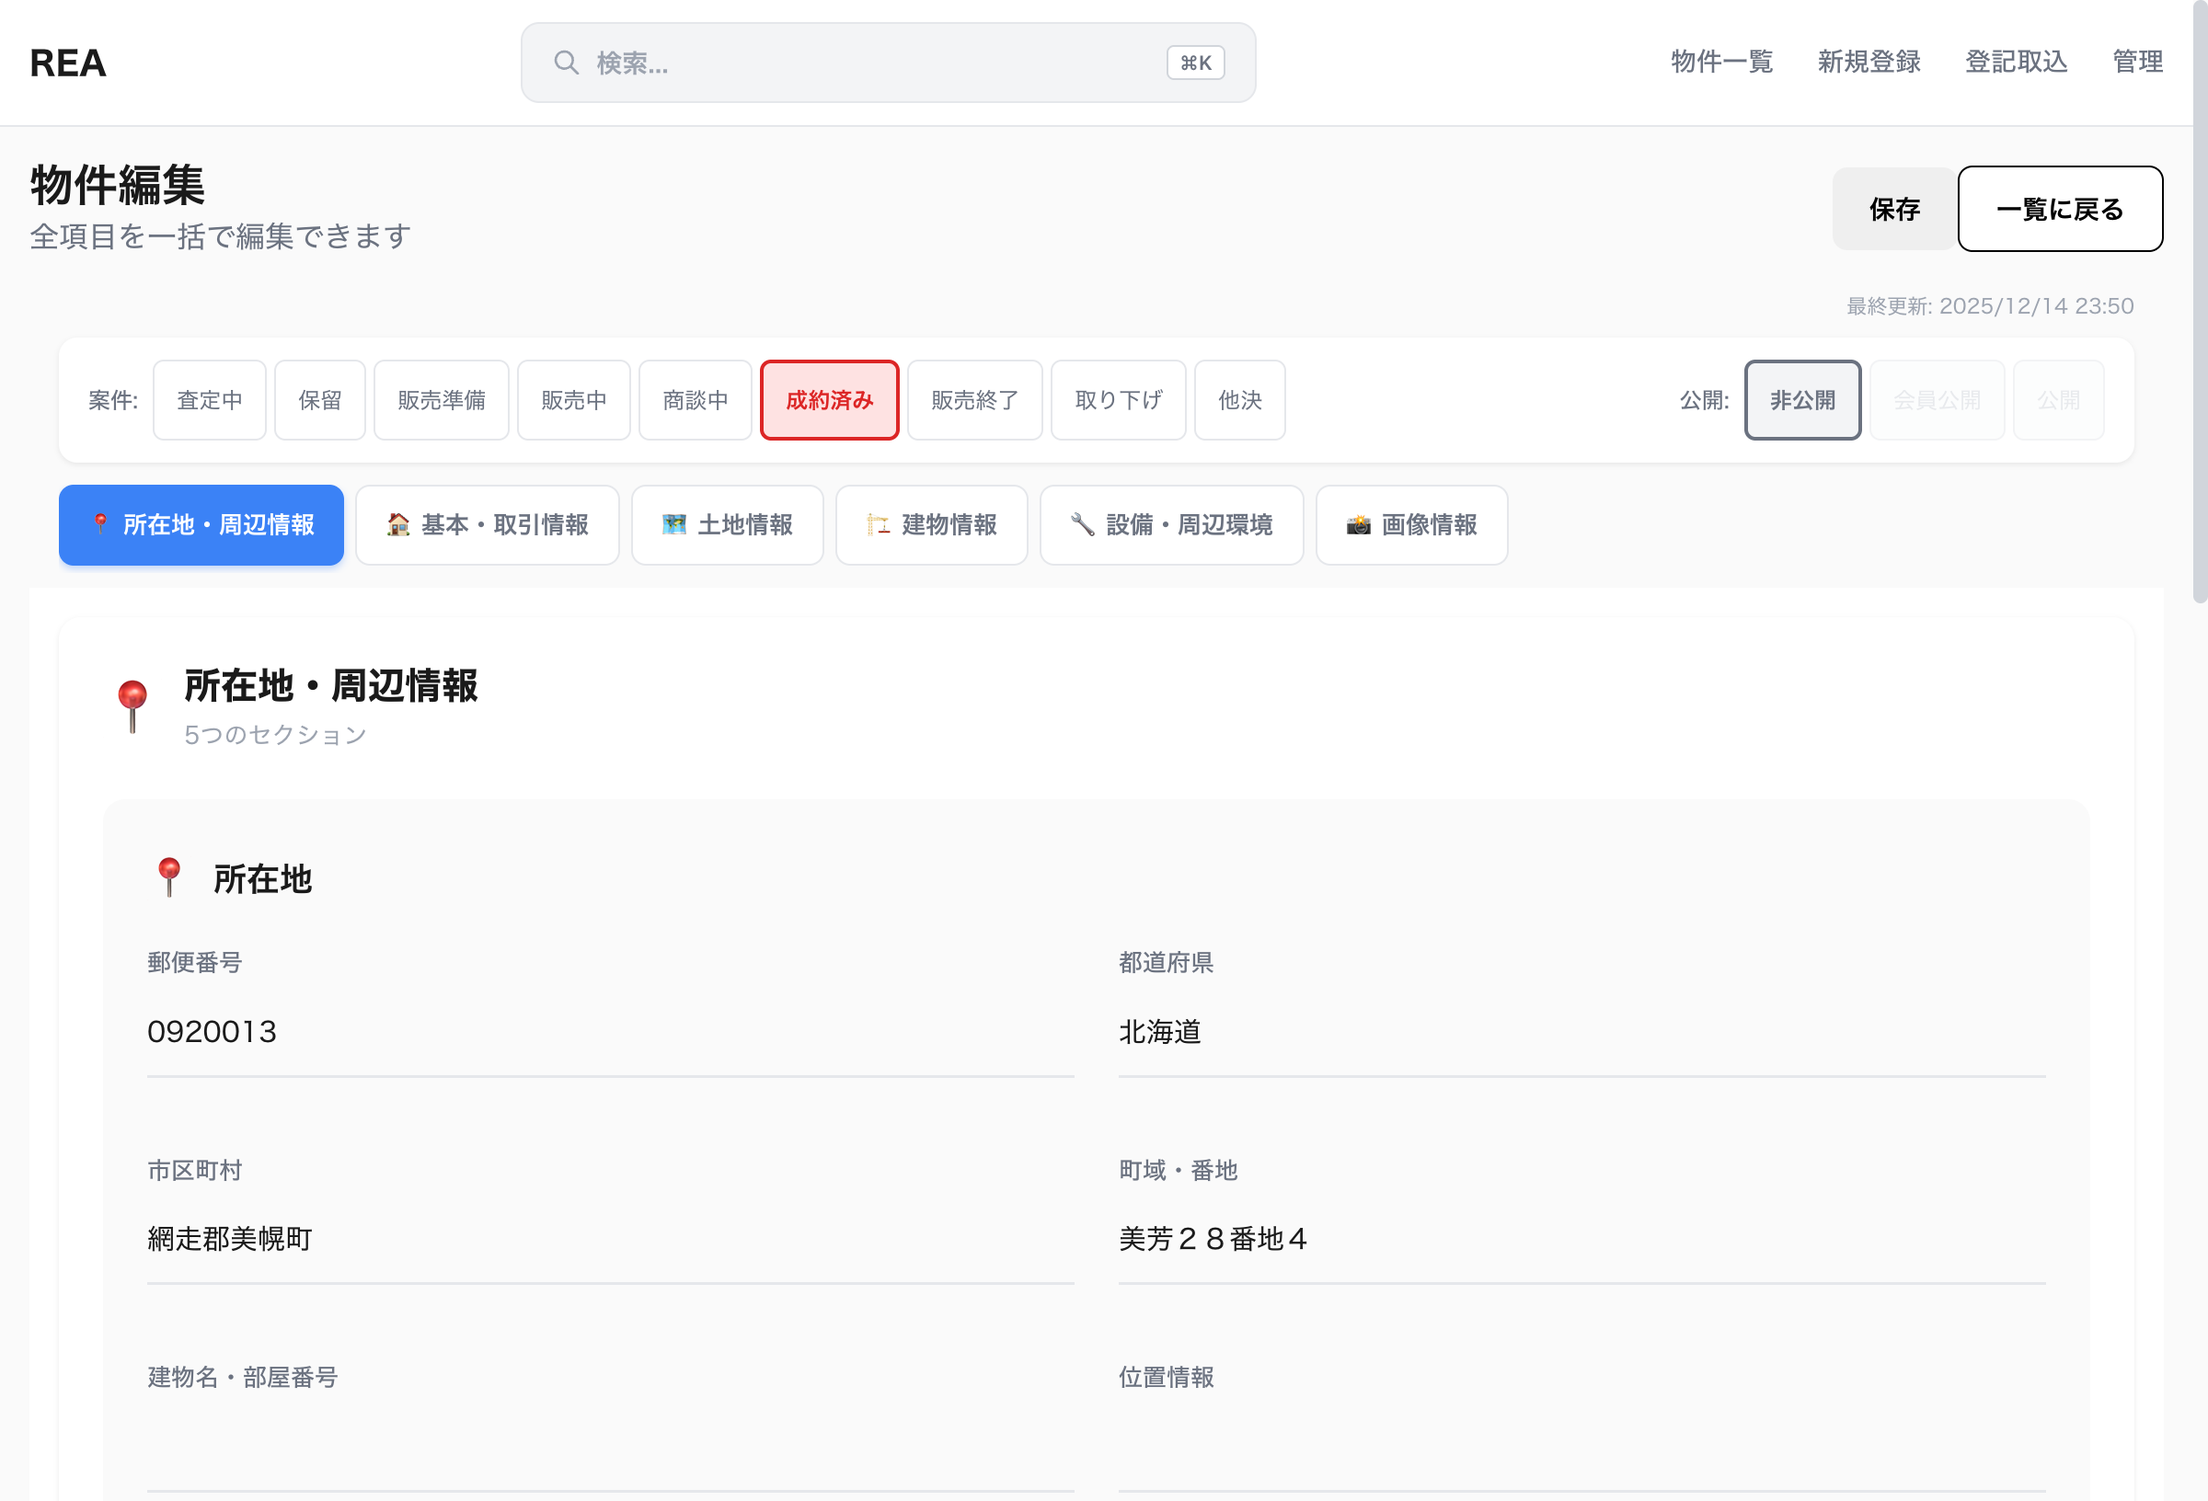
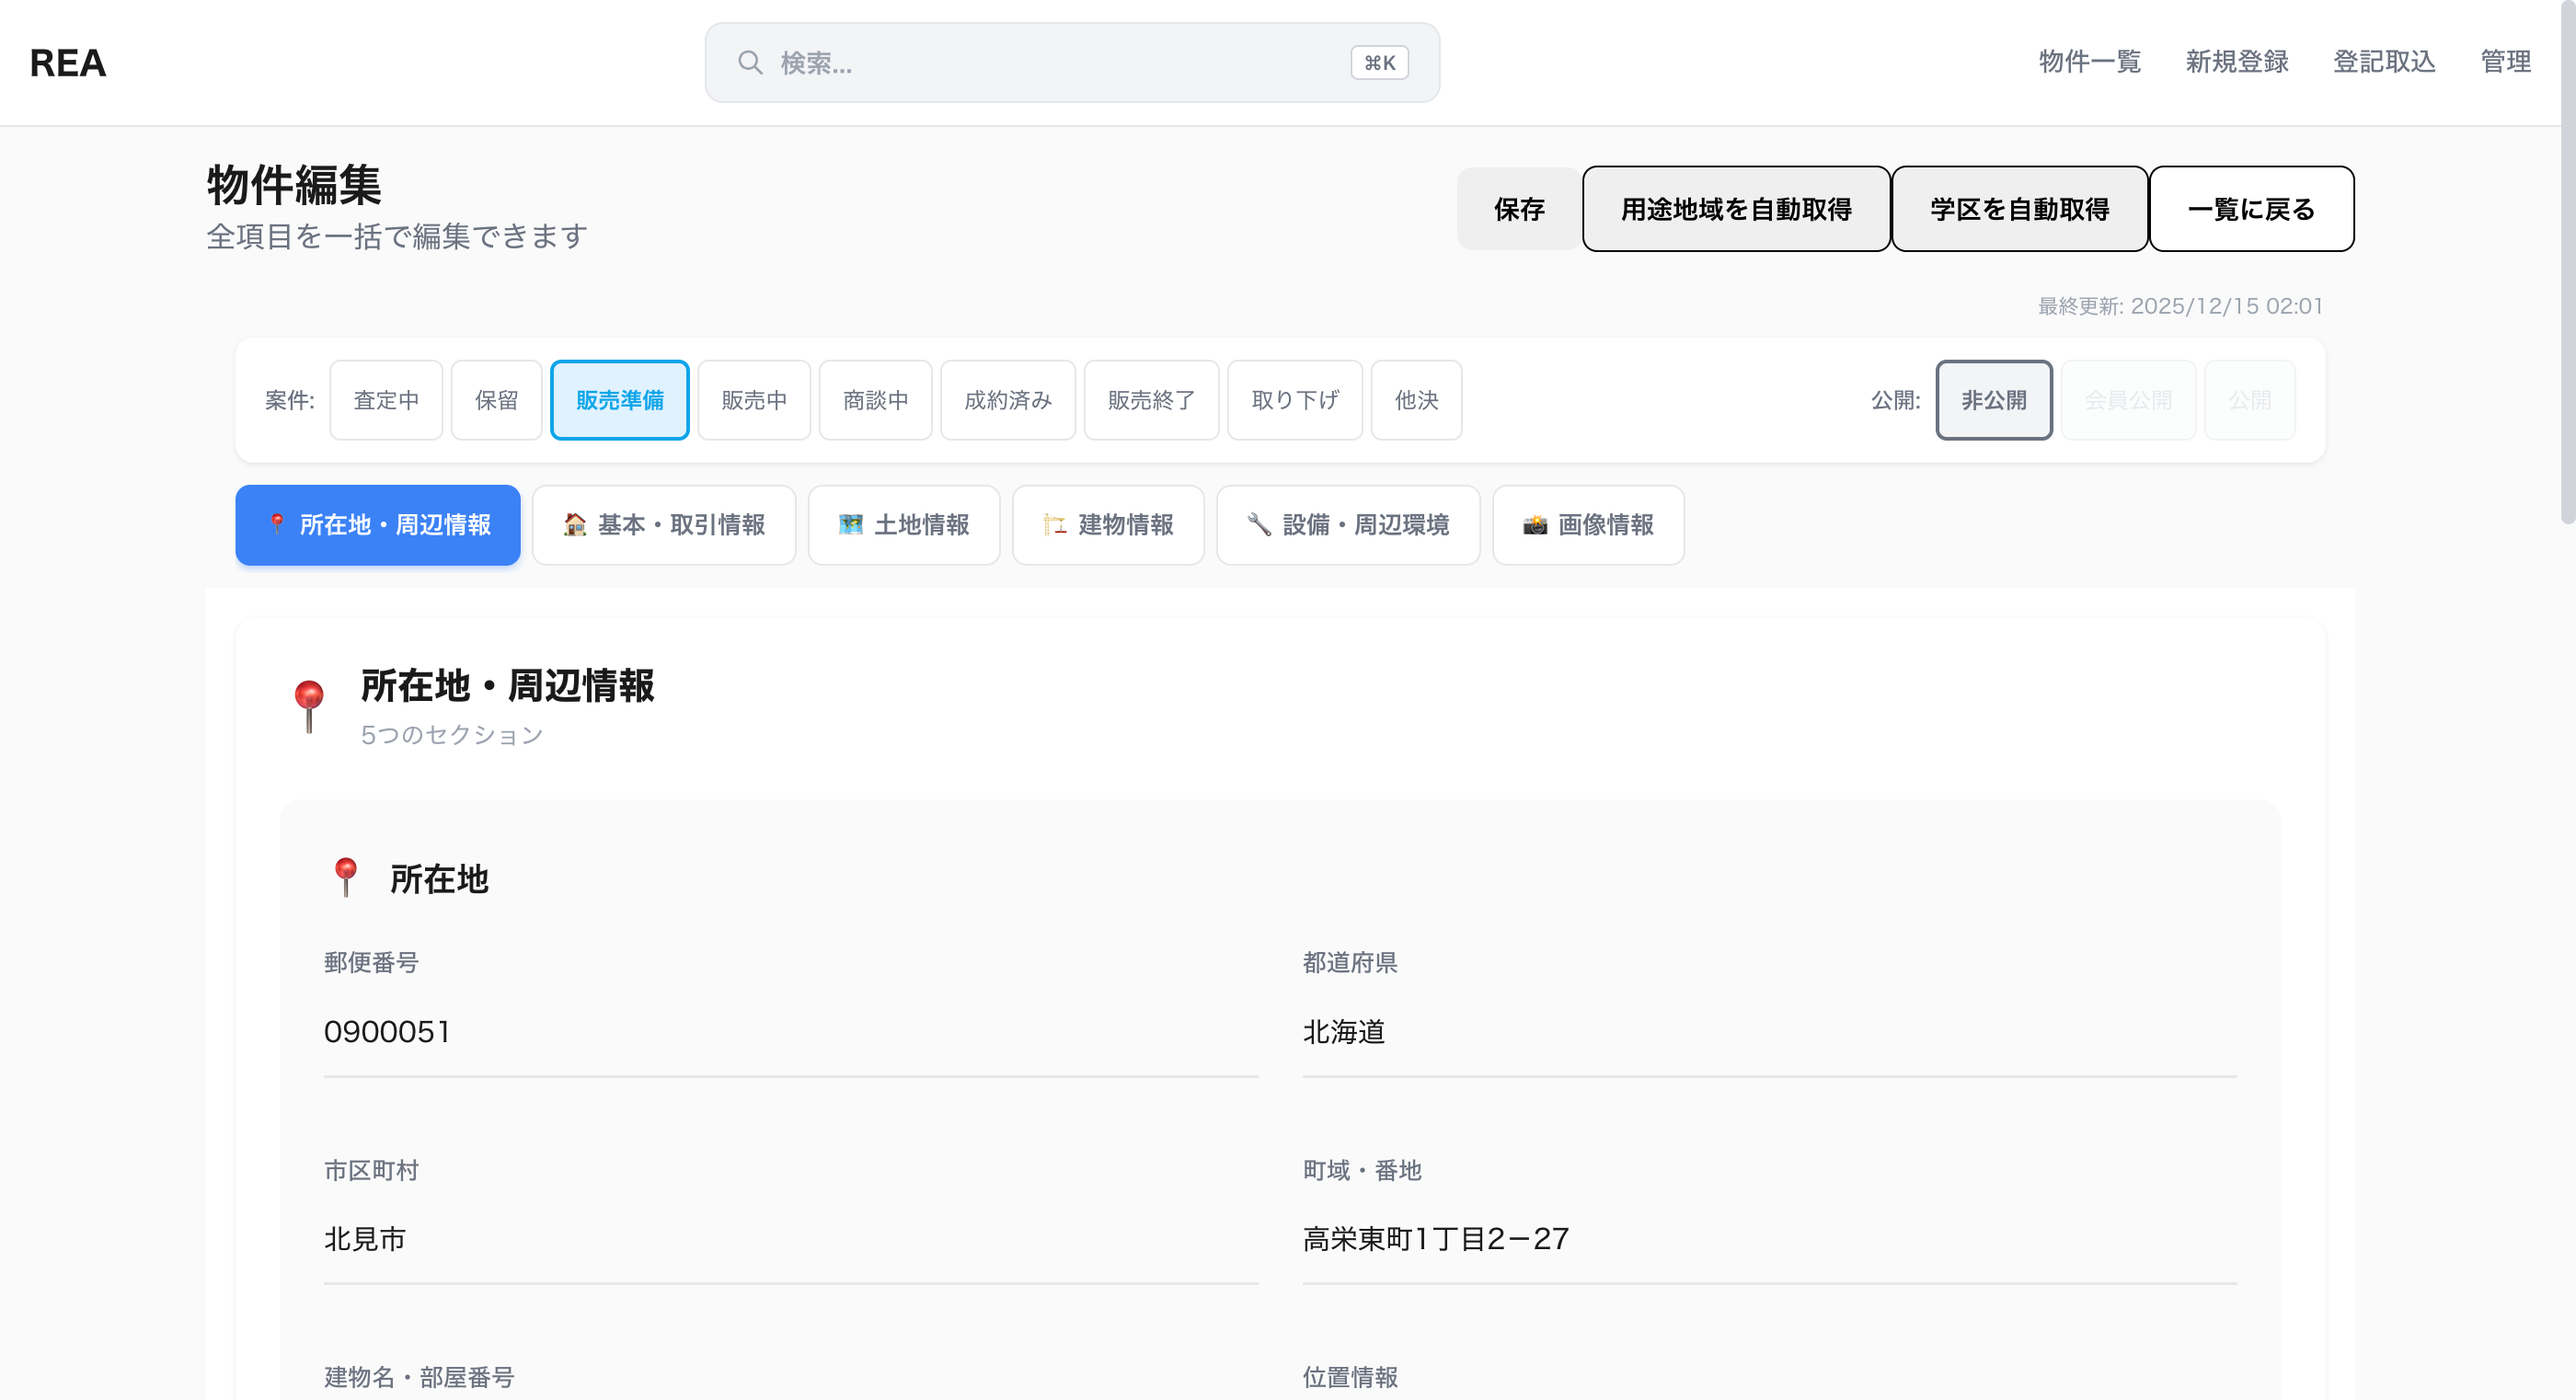
fix: 保存ボタンを固定ヘッダーに移動、重複削除
- DynamicForm: ステータスバーの右端に保存ボタン追加（autoSave=false時）
- PropertyEditDynamicPage: 重複していた保存ボタンを削除
- スクロールしても常に保存ボタンが見える状態に

🤖 Generated with [Claude Code](https://claude.com/claude-code)

diff --git a/rea-admin/src/components/form/DynamicForm.tsx b/rea-admin/src/components/form/DynamicForm.tsx
@@ -1398,7 +1398,7 @@ export const DynamicForm: React.FC<DynamicFormProps> = ({
                   </div>
                 </div>
 
-                {/* 右：公開状態 */}
+                {/* 中央：公開状態 */}
                 <div style={{ display: 'flex', alignItems: 'center', gap: '8px' }}>
                   <span style={{ fontSize: '12px', color: '#6B7280', fontWeight: 500 }}>公開:</span>
                   <div style={{ display: 'flex', gap: '4px' }}>
@@ -1429,6 +1429,36 @@ export const DynamicForm: React.FC<DynamicFormProps> = ({
                     })}
                   </div>
                 </div>
+
+                {/* 右：保存ボタン */}
+                {!autoSave && (
+                  <button
+                    type="button"
+                    onClick={form.handleSubmit(onSubmit)}
+                    style={{
+                      backgroundColor: '#10B981',
+                      color: '#fff',
+                      border: 'none',
+                      padding: '8px 24px',
+                      borderRadius: '6px',
+                      cursor: 'pointer',
+                      fontWeight: 600,
+                      fontSize: '13px',
+                      boxShadow: '0 1px 3px rgba(16, 185, 129, 0.3)',
+                      transition: 'all 150ms',
+                    }}
+                    onMouseOver={(e) => {
+                      e.currentTarget.style.backgroundColor = '#059669';
+                      e.currentTarget.style.transform = 'scale(1.02)';
+                    }}
+                    onMouseOut={(e) => {
+                      e.currentTarget.style.backgroundColor = '#10B981';
+                      e.currentTarget.style.transform = 'scale(1)';
+                    }}
+                  >
+                    保存
+                  </button>
+                )}
               </div>
 
               {/* 公開バリデーションエラー表示 */}
@@ -1609,7 +1639,7 @@ export const DynamicForm: React.FC<DynamicFormProps> = ({
                 ← 前へ
               </button>
 
-              {/* 中央: 保存ステータス */}
+              {/* 中央: 保存ステータス（自動保存時のみ） */}
               {autoSave && (() => {
                 const status = getSaveStatusDisplay();
                 if (!status) return null;

diff --git a/rea-admin/src/pages/Properties/PropertyEditDynamicPage.tsx b/rea-admin/src/pages/Properties/PropertyEditDynamicPage.tsx
@@ -209,19 +209,6 @@ export const PropertyEditDynamicPage: React.FC = () => {
           </div>
 
           <div className="flex items-center space-x-4">
-            {/* 保存/登録ボタン */}
-            <button
-              onClick={() => {
-                const form = document.querySelector('form');
-                if (form) {
-                  form.dispatchEvent(new Event('submit', { bubbles: true, cancelable: true }));
-                }
-              }}
-              disabled={saveStatus === 'saving'}
-              className="px-8 py-2.5 bg-sky-500 text-white font-bold rounded-lg shadow-lg hover:bg-sky-600 hover:shadow-xl disabled:bg-gray-400 disabled:cursor-not-allowed transition-all transform hover:scale-105"
-            >
-              {saveStatus === 'saving' ? '保存中...' : isNew ? '登録' : '保存'}
-            </button>
             {/* 用途地域自動取得ボタン */}
             {!isNew && property?.latitude && property?.longitude && (
               <button
